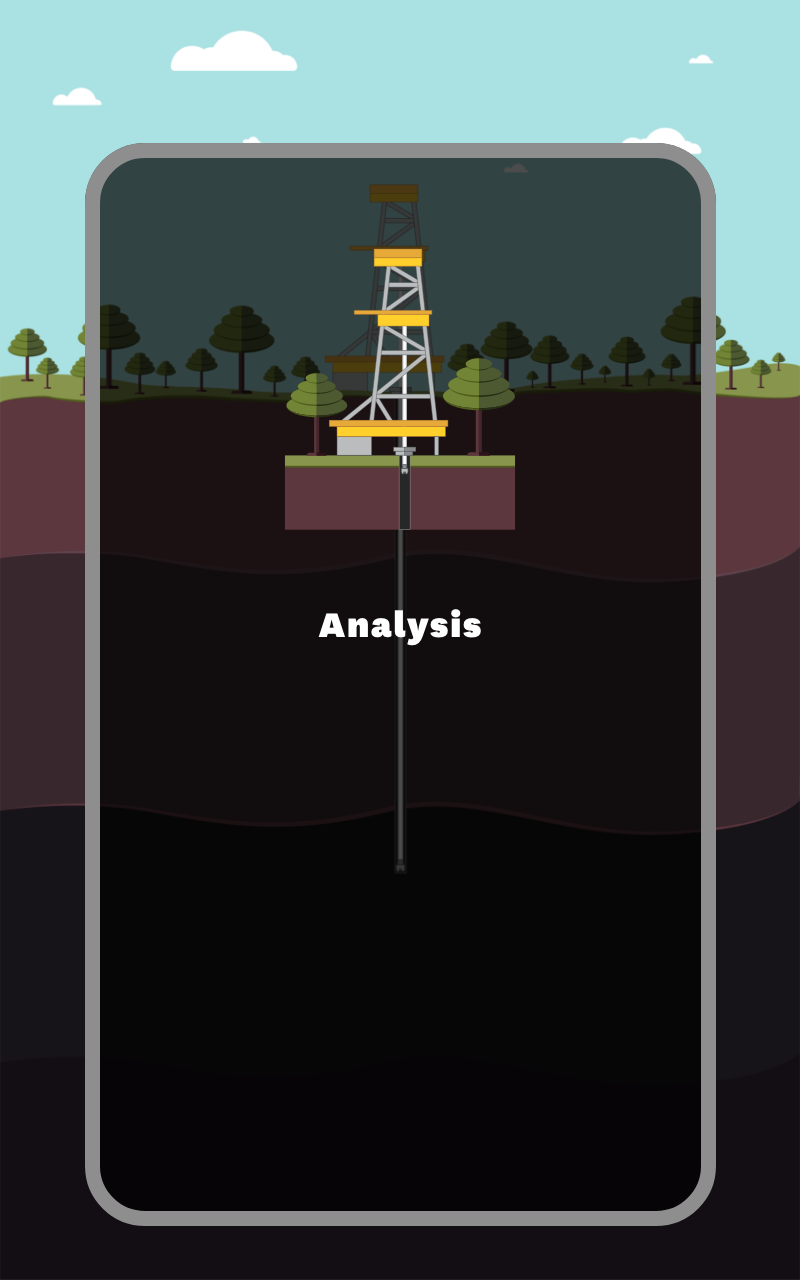
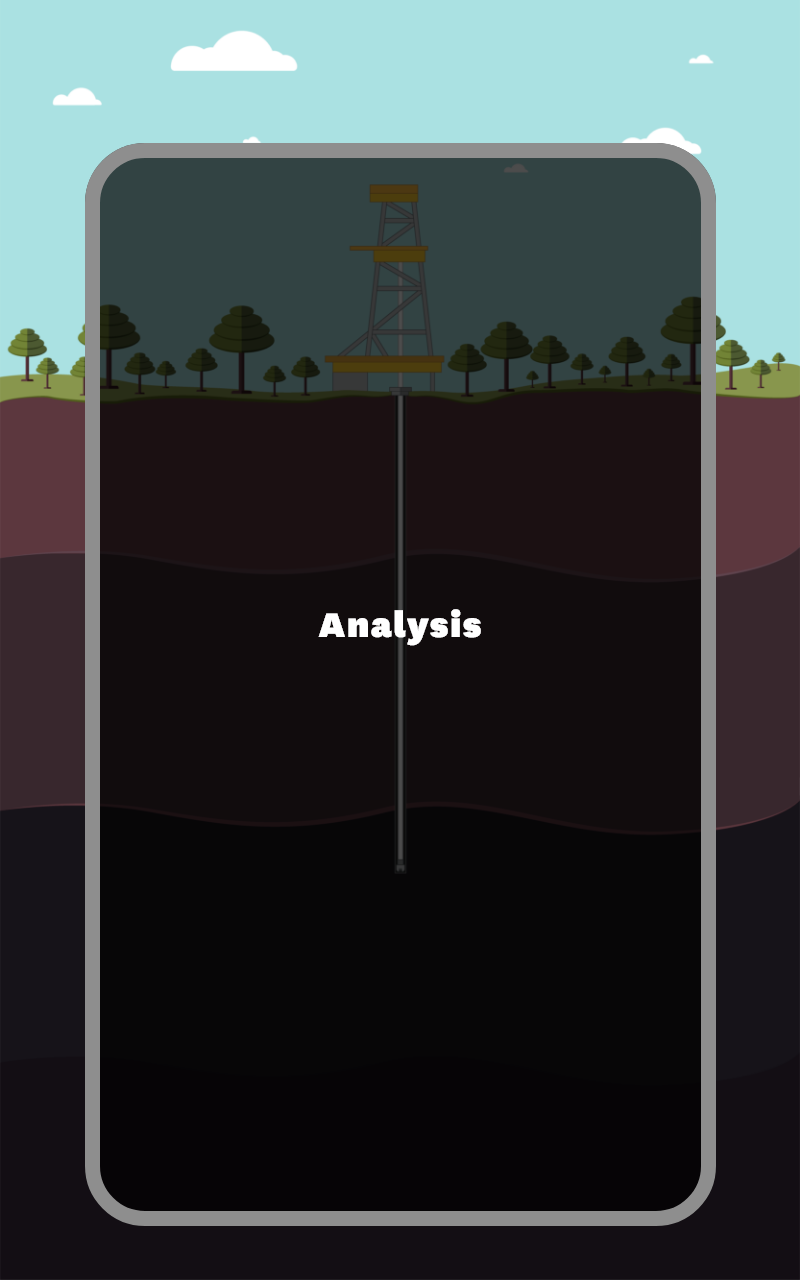
Update visual assets. Remove outdated assets.

Changed region(s): [[0.3438, 0.1875, 0.6562, 0.4375], [0.5625, 0.4688, 0.5938, 0.5], [0.4688, 0.4688, 0.5, 0.5]]

diff --git a/src/App/index.js b/src/App/index.js
@@ -135,7 +135,7 @@ class App extends Component {
     const {
       invalidPulse, layer, step, timeout,
     } = this.state;
-    console.log('nextClick:', 'layer', layer, 'step', step);
+    // console.log('nextClick:', 'layer', layer, 'step', step);
     const { sendData } = this.props;
 
     clearTimeout(timeout);

diff --git a/src/App/index.css b/src/App/index.css
@@ -44,8 +44,7 @@ code {
 }
 
 #drillAnimation {
-  margin-top: -280px;
-  width: 1000px;
+  margin-top: -300px;
 }
 
 #layerInfo {
